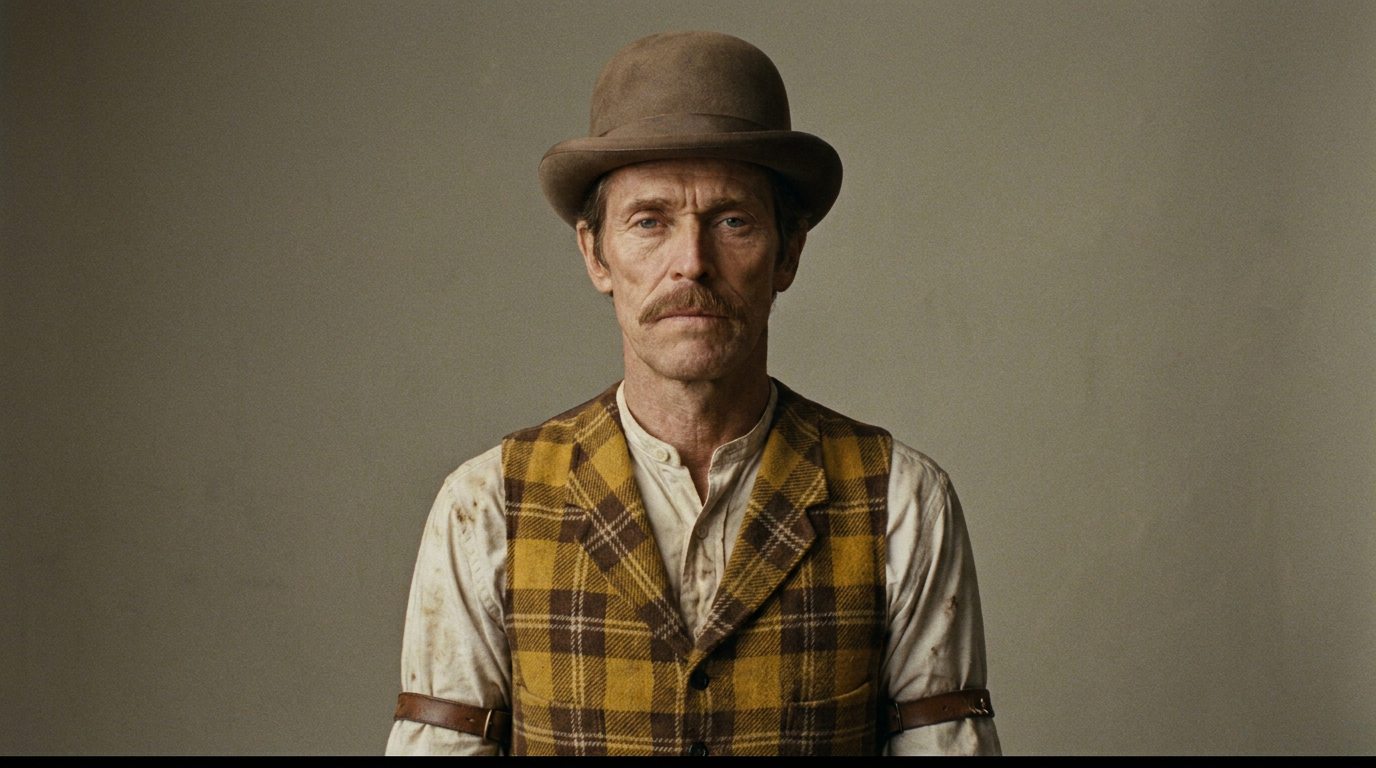
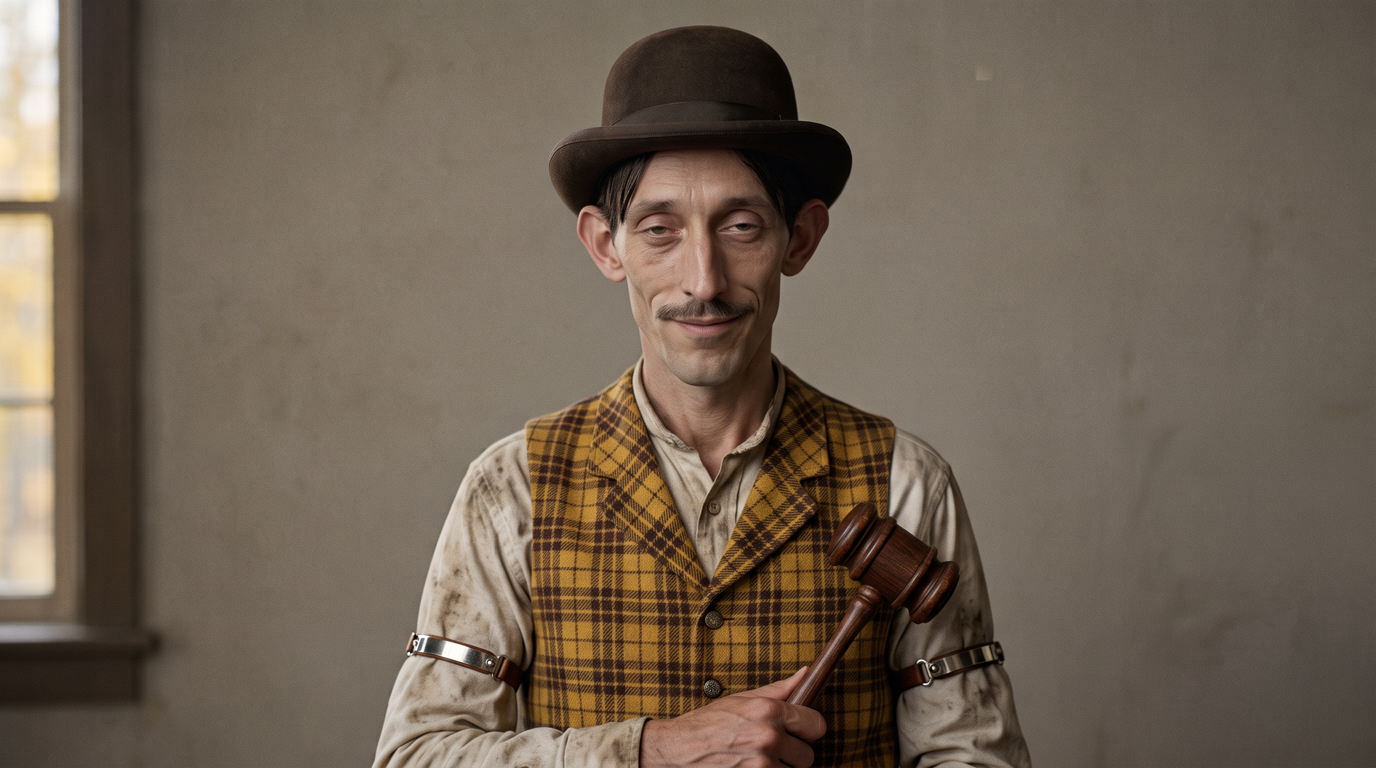
phase 1: new faces for Clara, Deke, Marshal (front, 3/4, full body) from Gemini

diff --git a/HANDOFF.md b/HANDOFF.md
@@ -12,6 +12,7 @@ Talk to the user in Russian, briefly. Branch: `pkg/western_widows_piano_v1` in `
   * Clara look updated again (commit 09daddf): "strikingly beautiful like the lead actress of a modern western drama ... no freckles" (take `look` from the fresh shotlist).
   * Gemini UI recipe (viewport 1366x585): new chat -> "+" (533,292) -> "Создание изображений" (642,467) -> aspect pill (825,505) -> 16:9 (566,458) -> click prompt (700,397) -> type -> Enter. Clicks right after a page load are often swallowed: take a screenshot after each step; do not click tiles of the gallery (it attaches a style). Mode and 16:9 persist inside a chat: chat `https://gemini.google.com/app/3fc37b8806ccfe4e` is already in image mode 16:9, just type a new prompt there (add "a clearly different man/woman than in the previous images" to get different faces). After ~35 s: scroll down 10x3, scroll up 1, hover (826,200), download icon is at ~(1150,37..78) (top right of the latest image). Then `powershell -File tools/grab_gem.ps1 -Name X` (saves newest Gemini download as real PNG into `_variants/gemini/`, refuses duplicates). Output 2752x1536 (16:9), no visible watermark. Reference images upload: use the cc_file_input patch (tools/flow_upload_patch.js) + find "all file inputs" + file_upload on the first ref.
   * Done in Gemini (15 images, no limit hit up to 10:00): CLARA_front_v1..v4, DEKE_front_v1..v4, MARSHAL_front_v1..v4 in `_variants/gemini/` (+ *_sheet.jpg contact sheets, sent to the user). NEXT: wait for the user's choice of faces; then Clara 3/4 + full body from the chosen front (WITH the chosen front as reference), same for Deke/Marshal; then PIANO (no nameplate), HORSE, 8 locations. Chosen faces go to `visuals/refs/CHAR_*_front.png` (resize to 1376x768 like the others is optional; Gemini originals are 2752x1536).
+- FACES CHOSEN by the user: Clara v2, Deke v4, Marshal v2; refs CHAR_{CLARA,DEKE,MARSHAL}_{front,34,full}.png replaced in visuals/refs (old ones in _variants/old_refs, gitignored). RULE: in ALL prompts/frames for Marshal write "plain five-pointed silver star badge, no lettering, no engraving". Gemini ref upload recipe: install patch, +, Upload files, JS-tag the LAST input[type=file] (aria-label), `find` it, file_upload on that ref; always screenshot after the download click (it sometimes opens the image viewer: close with the back arrow at (46,32)). Image chat in use: gemini.google.com/app/7a43c2beaf6f3879 (image mode, 16:9). NEXT: PIANO without nameplate, HORSE, 8 LOC_* in Gemini, then Phase 2 clip tests with the fresh shotlist.
 - Strict Flow pacing from the user: ONE request at a time, max x2 (refs x1), never x3/x4, 30-60 s pause, <=30 images/hour, log in `_variants/flow_log.tsv` (time, images, request, result), start frames max 4 tries. On "лимит": stop, log time/count, do audio/music/download/manifest, retry a single x1 an hour later.
 - Credits: user says 905 left at start of session 2. Stop below 150. Track in manifest `flow_credits_spent/left`.
 - Flow limit: 08:50 on 3 Oct a single x2 request (Clara front) failed with the usage limit again (7h20m after the first). Downloading existing images still works under the limit. See README "Questions".
